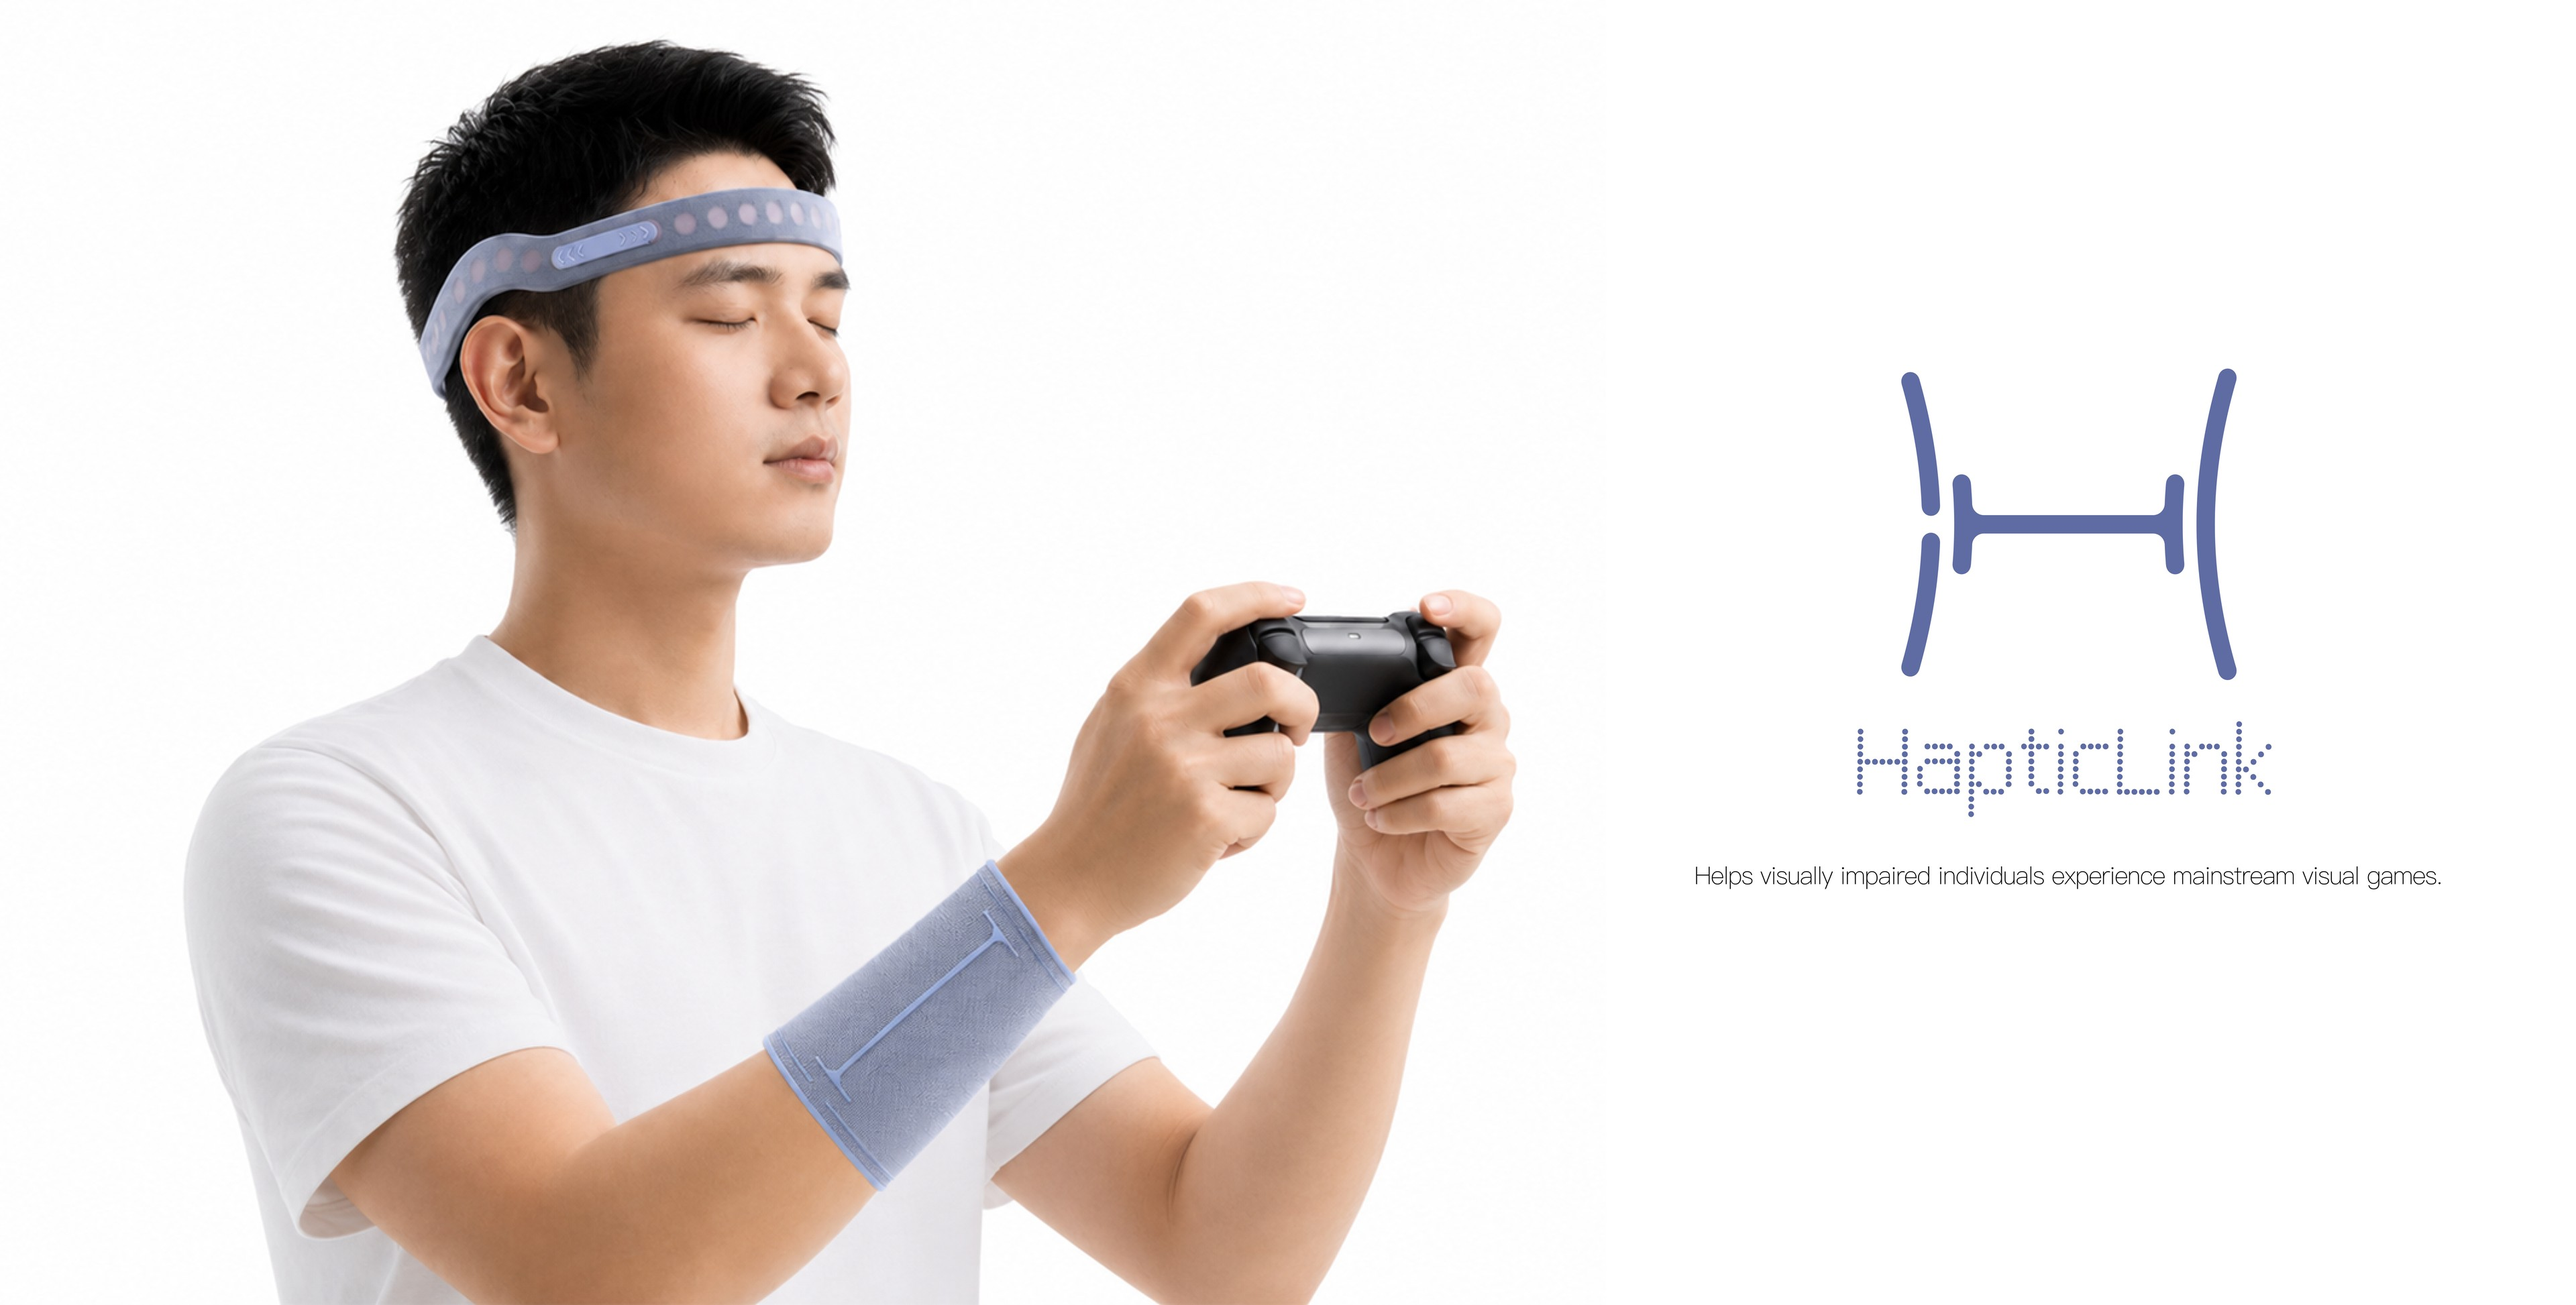
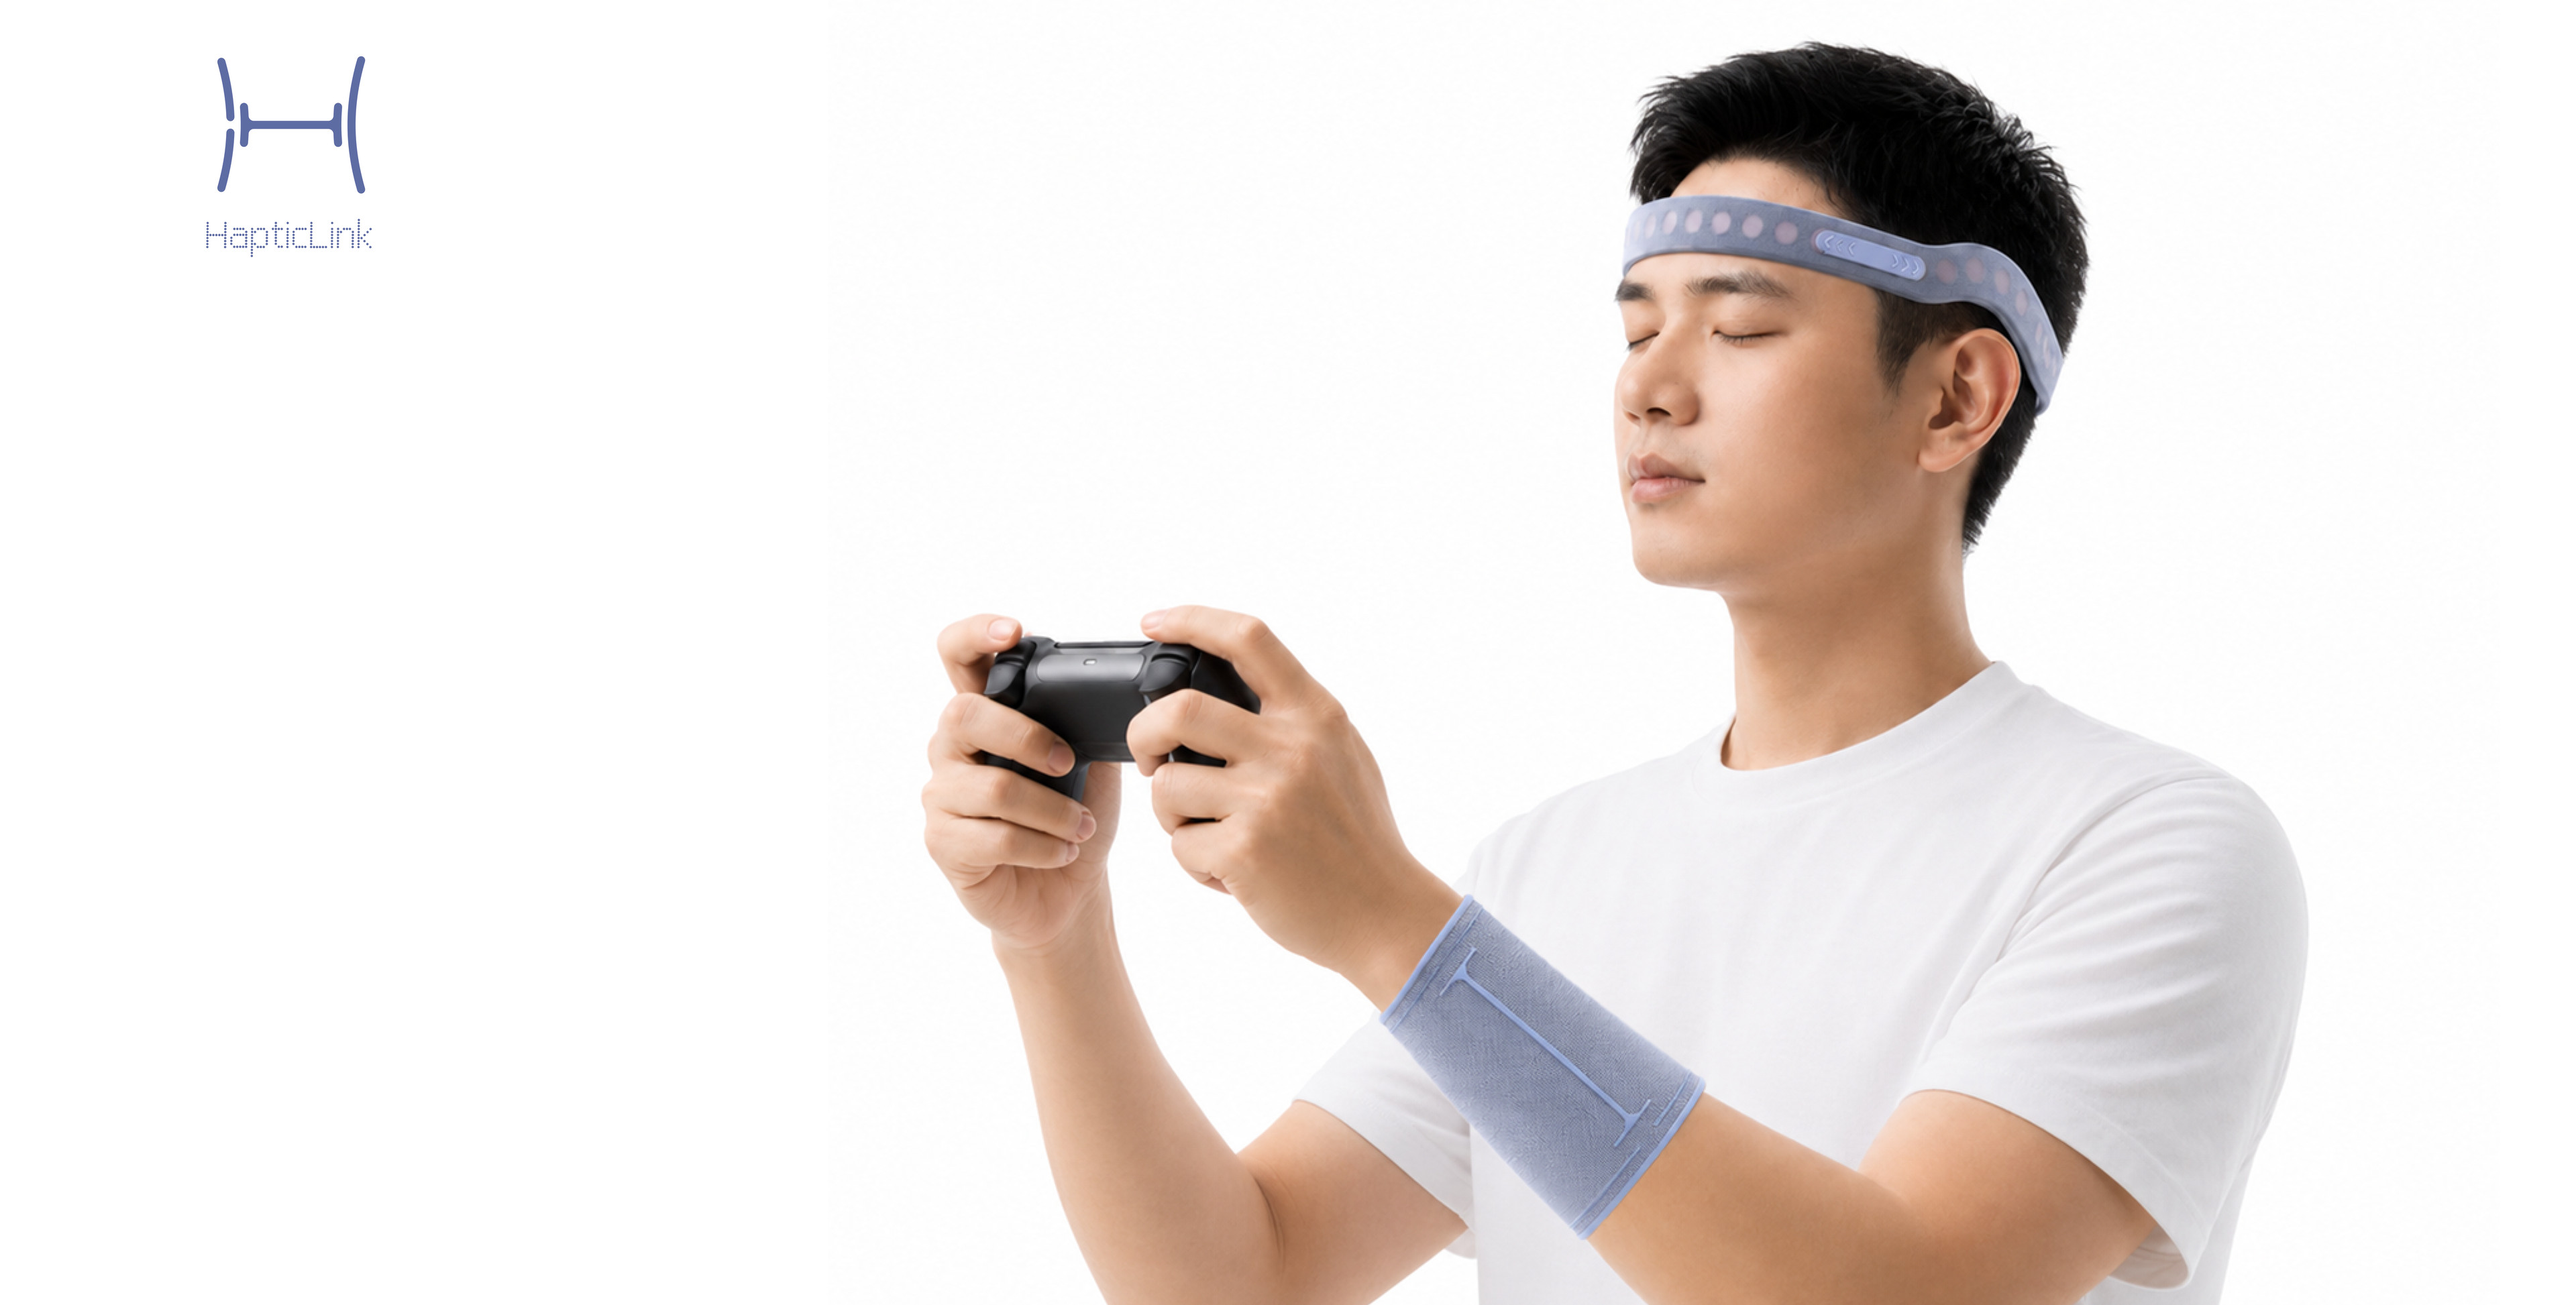
Swap Selected Works cards and update two hero photos
Move Coralra to top right and HAPTICLINK to bottom left, and replace the HapticLink and Coralra hero images.

diff --git a/src/data.ts b/src/data.ts
@@ -63,17 +63,17 @@ export const workRows: Work[][] = [
       image: `${import.meta.env.BASE_URL}nomo-hero.jpg`,
     },
     {
-      title: 'HAPTICLINK',
-      subtitle: 'Helps visually impaired individuals experience mainstream visual games.',
-      image: `${import.meta.env.BASE_URL}hapticlink-hero.jpg`,
-    },
-  ],
-  [
-    {
       title: 'Coralra',
       subtitle:
         "Aims to elevate users' eco-awareness, so as to ease and fix the incoming extinction of coral species.",
       image: `${import.meta.env.BASE_URL}coralra-hero.jpg`,
+    },
+  ],
+  [
+    {
+      title: 'HAPTICLINK',
+      subtitle: 'Helps visually impaired individuals experience mainstream visual games.',
+      image: `${import.meta.env.BASE_URL}hapticlink-card.jpg`,
     },
     { title: 'xBloom Studio', subtitle: 'Ultimate speciality coffee' },
   ],
